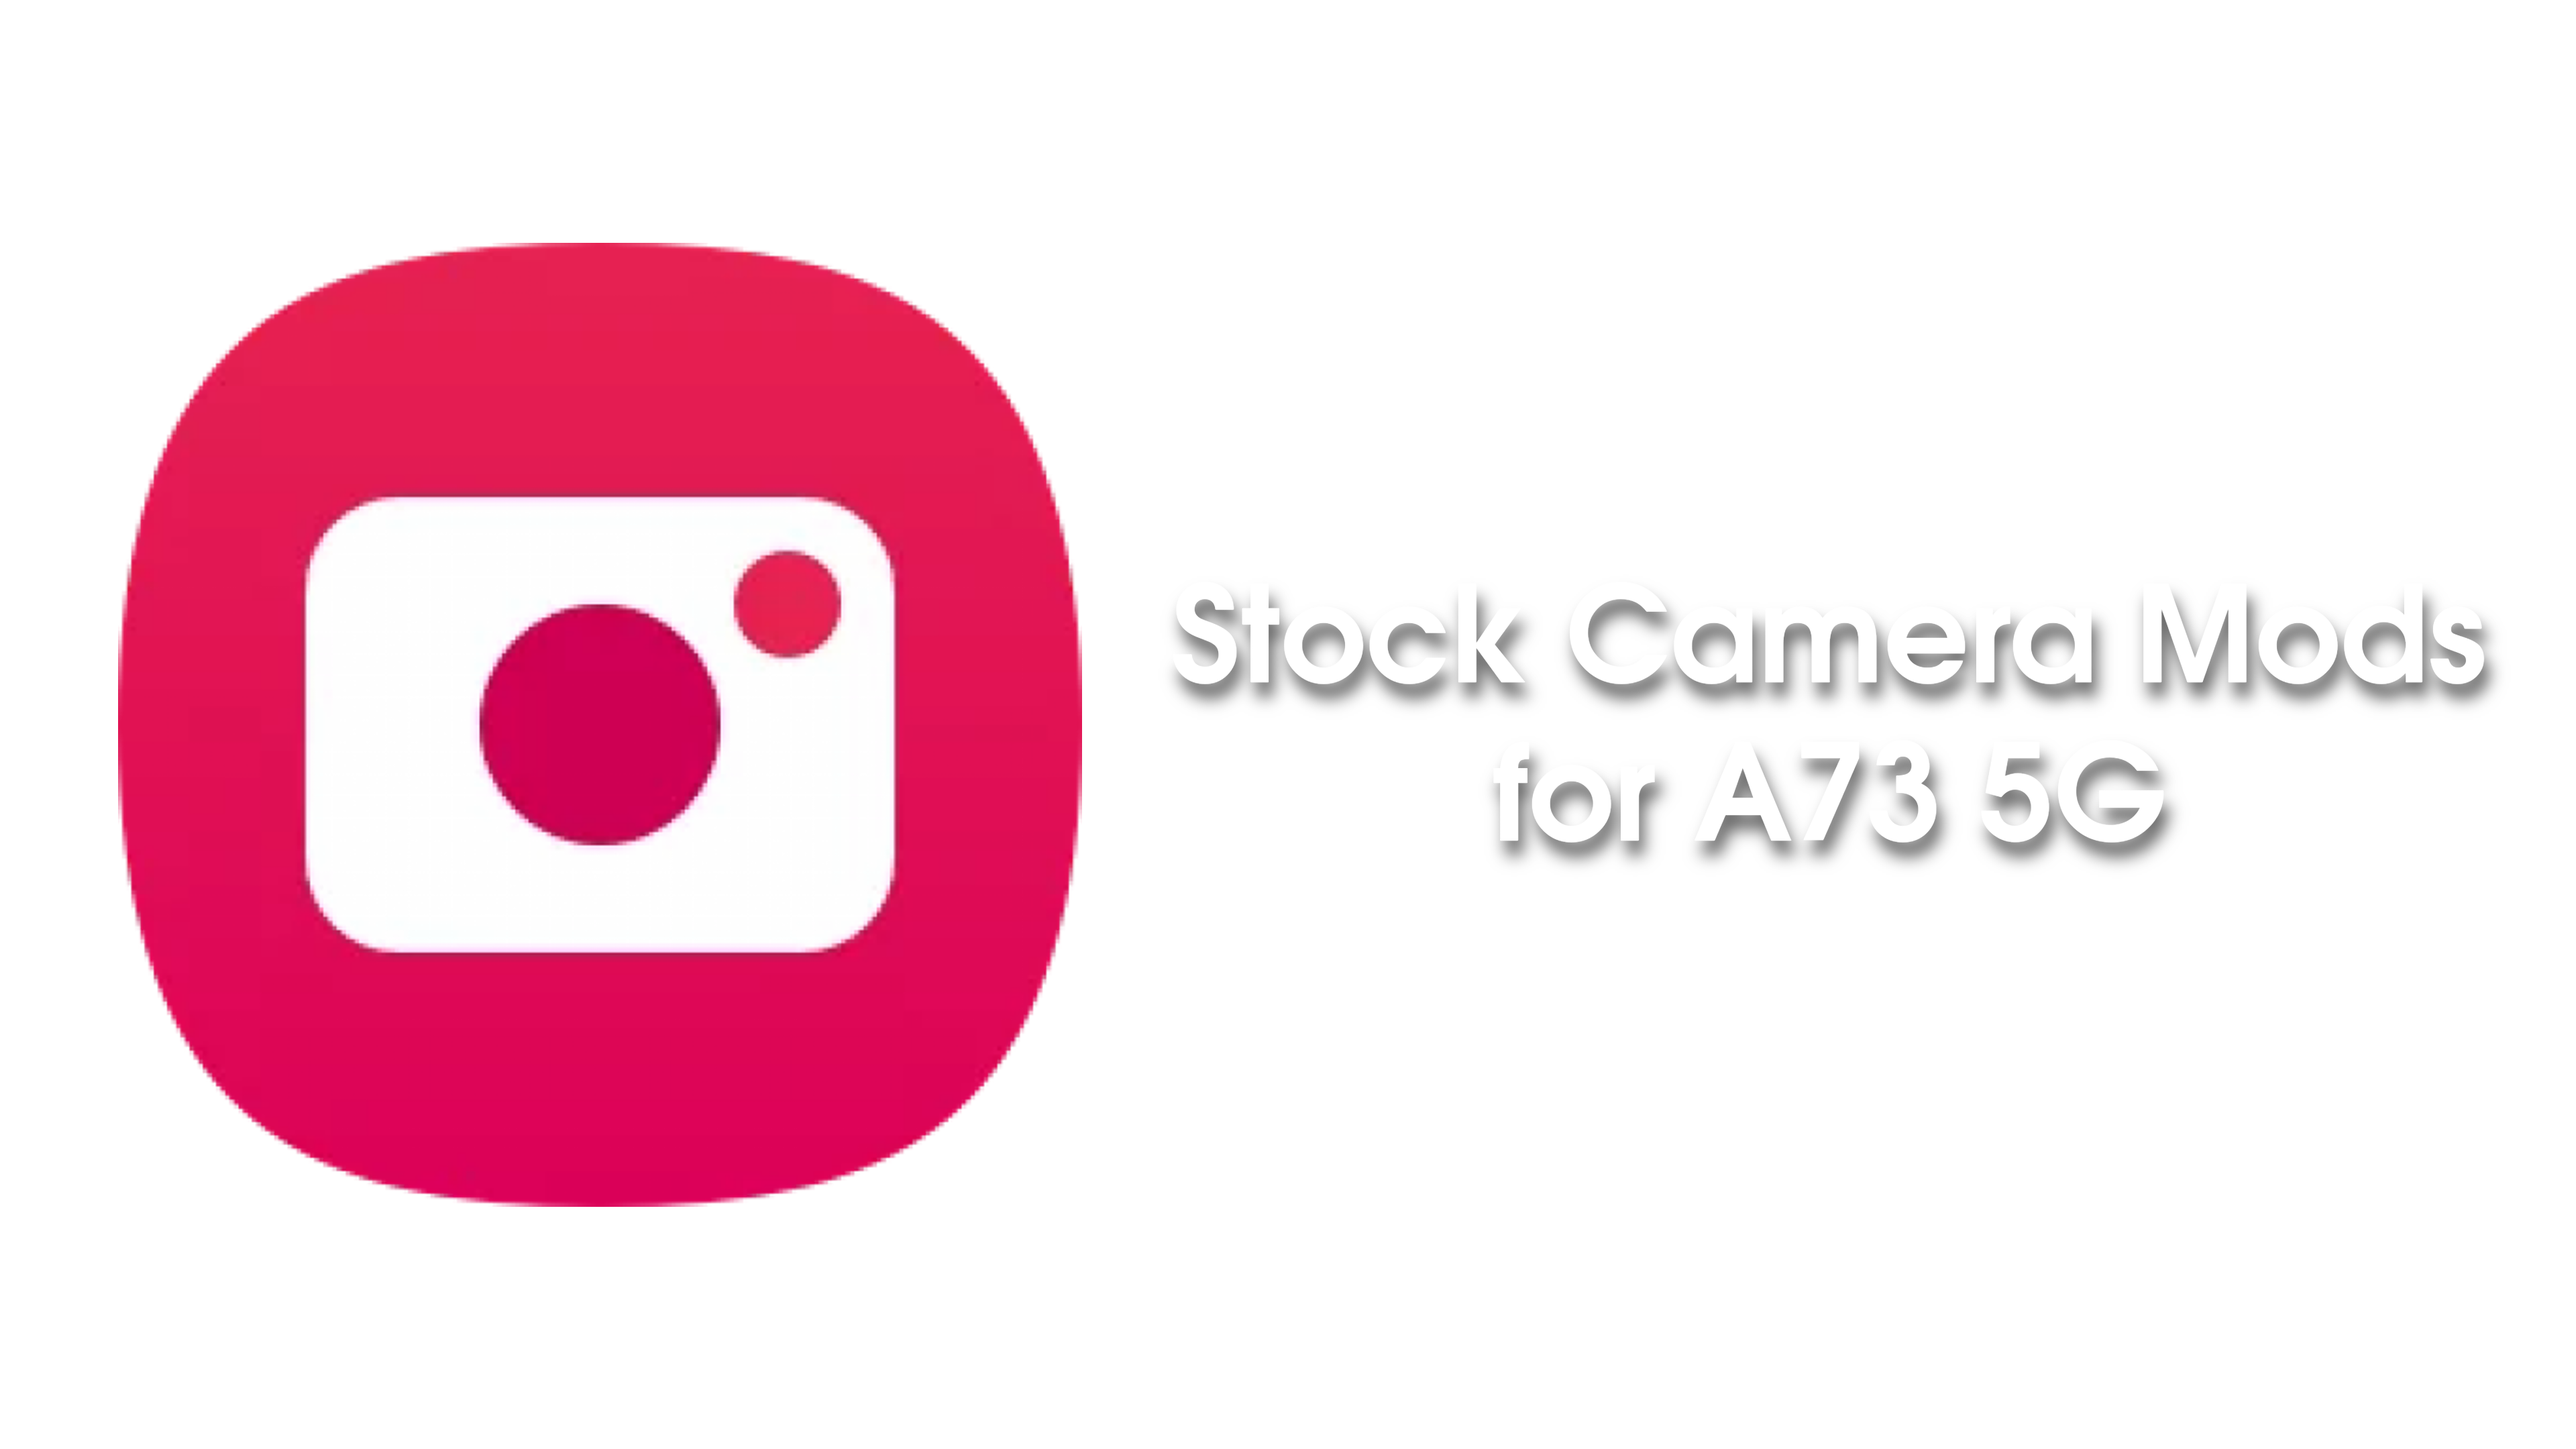
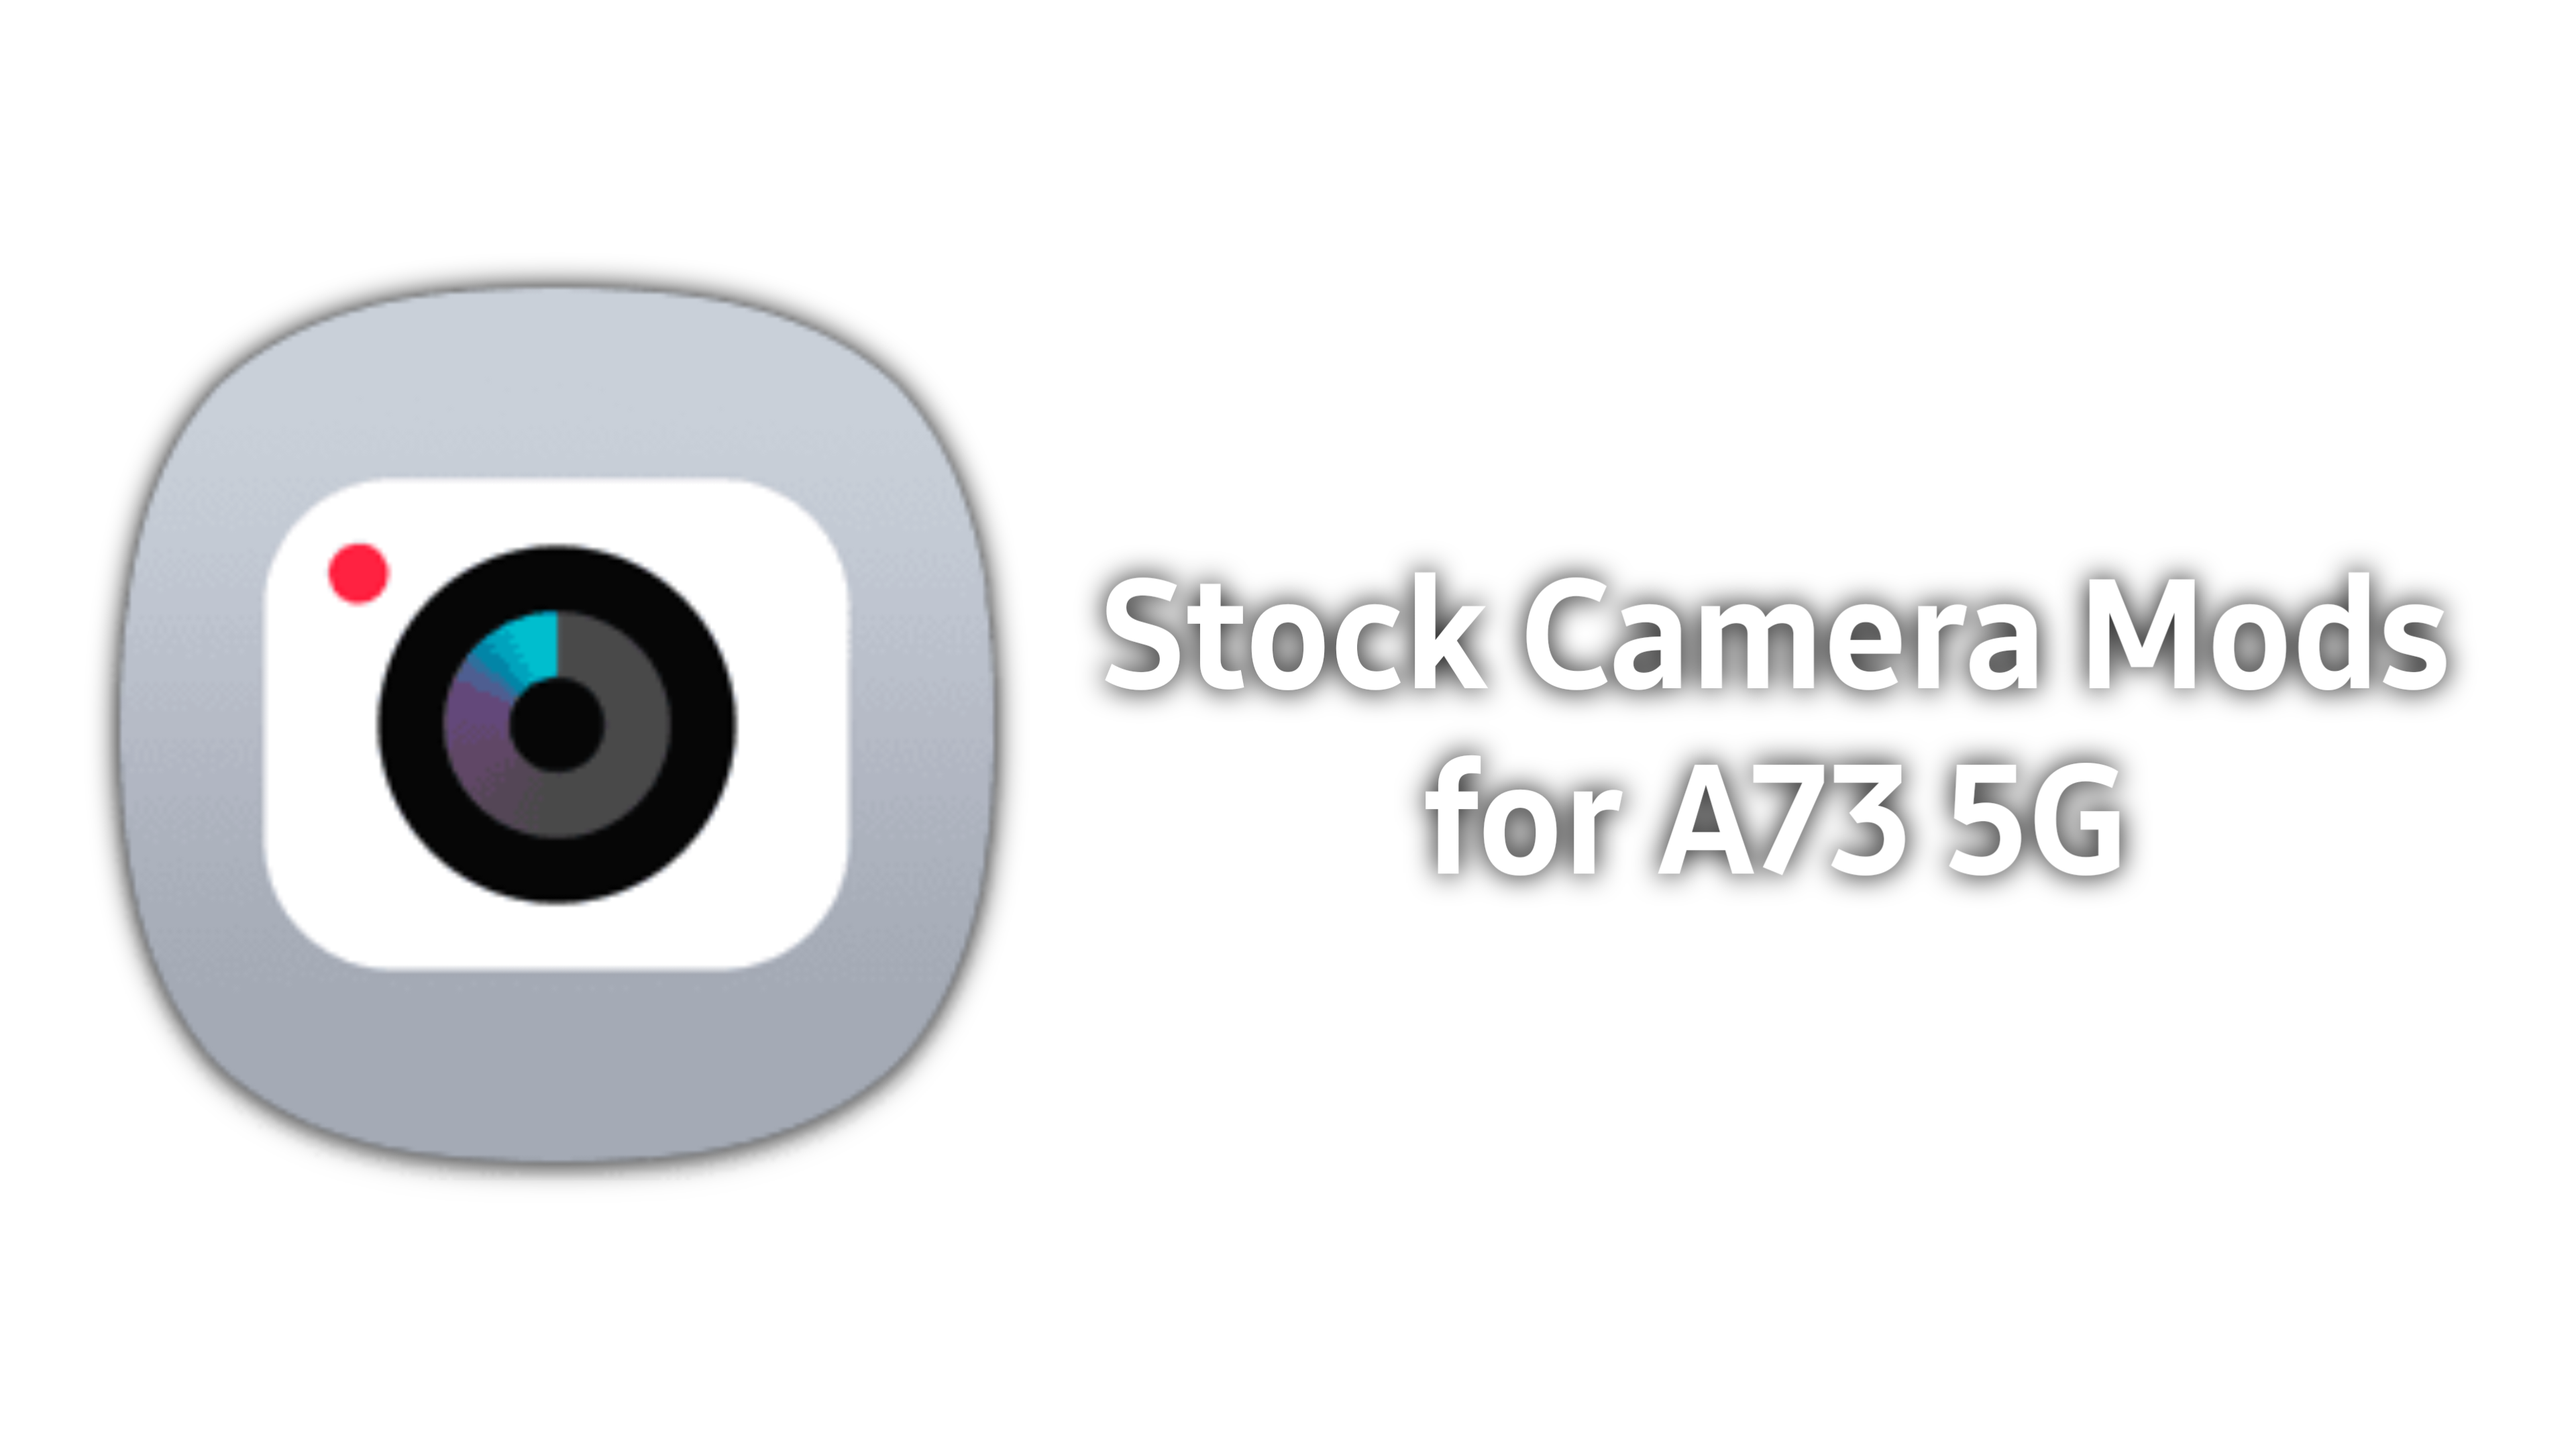
bump - oneui 7!!

Changed region(s): [[0.0312, 0.1551, 0.9688, 0.8375]]

diff --git a/README.md b/README.md
@@ -4,7 +4,7 @@
   <img src="https://raw.githubusercontent.com/ngdplnk/a73xq_stockcammods/refs/heads/main/banner.png" alt="a73xq-stockcammods banner" width="400" />
 </p>
 
-Enhanced features for your Galaxy A73 5G's Stock Camera based on S24 Ultra configs.
+Enhanced features for your Galaxy A73 5G's Stock Camera based on S25 Ultra configs.
 
 ## Features
 <details>
@@ -14,7 +14,7 @@ This module allows you to use the following features:
 
 - High bitrate recording.
 
-- Dual Rec and Fun modes.
+- Dual Rec mode.
 
 - Pro/Pro Video on Front Camera.
 
@@ -28,13 +28,11 @@ This module allows you to use the following features:
   
   All resolutions available for Main Camera:
   - 4k 30/24fps
-  - QHD 60/30fps
   - 1080p AUTO/24/30/60fps
   - 720p 30fps
   
   All resolutions available for Front Camera:
   - 4k 30/24fps
-  - QHD 30fps
   - 1080p AUTO/24/30/60fps
   - 720p 30fps
 
@@ -48,14 +46,16 @@ This module allows you to use the following features:
 
 - Night/Astro Hyperlapse.
 
+- Zoom rocker in Video mode.
+
 - Anamorphic lens and DOF adapter settings on Camera Assistant.
 </details>
 
-## [📥Latest module for OneUI 6 - 6.1.1](https://github.com/ngdplnk/a73xq_stockcammods/releases/latest)
+## [📥Latest module for OneUI 7](https://github.com/ngdplnk/a73xq_stockcammods/releases/latest)
 
 **If you are using KernelSU, toggle `Umount modules` OFF for the Camera app to get the mods working!!!**
 
 ## About and acknowledgements
 Mods created and mantained with ❤ by [@ngdplnk](https://github.com/ngdplnk). For A73 5G only.
 
-Special thanks to [@utkustnr](https://github.com/utkustnr) :shipit:
+Special thanks to [@utkustnr](https://github.com/utkustnr) and [@eversonsouzz](https://https://t.me/eversonsouzz) :shipit:

diff --git a/changelog.md b/changelog.md
@@ -1,7 +1,12 @@
-## v1.1 for OneUI 6.X Changelog
+## v1.0 for OneUI 7 Changelog
 
-- Added and enabled FHD Auto FPS video modes by default. This are different from the config 'Auto FPS' options but achieve a similar result.
+This update is designed for OneUI 7 and includes crucial improvements and new features for the camera app.
 
-- Disabled Super Steady for UHD recording due to incompatibilities (Issues reported by [@Saddam ameghchouche](https://xdaforums.com/m/saddam-ameghchouche.9644798/)).
+- Removed QHD modes due to incompatibilities with OneUI 7.
+- Added advanced zero shutter lag support.
+- Added support for additional scene detection effects like Bright Night and Document Scan.
+- Added support for the zoom rocker feature in video mode, allowing for smoother zoom adjustments during video recording. This works with UW too and may seem weird, but it's a feature that some users may find useful.
+
+*Note: This update is specifically tailored for OneUI 7 and the module will not flash on OneUI 6 or earlier versions. Ensure your device is running OneUI 7 before applying this update.*
 
 Enjoy :)
